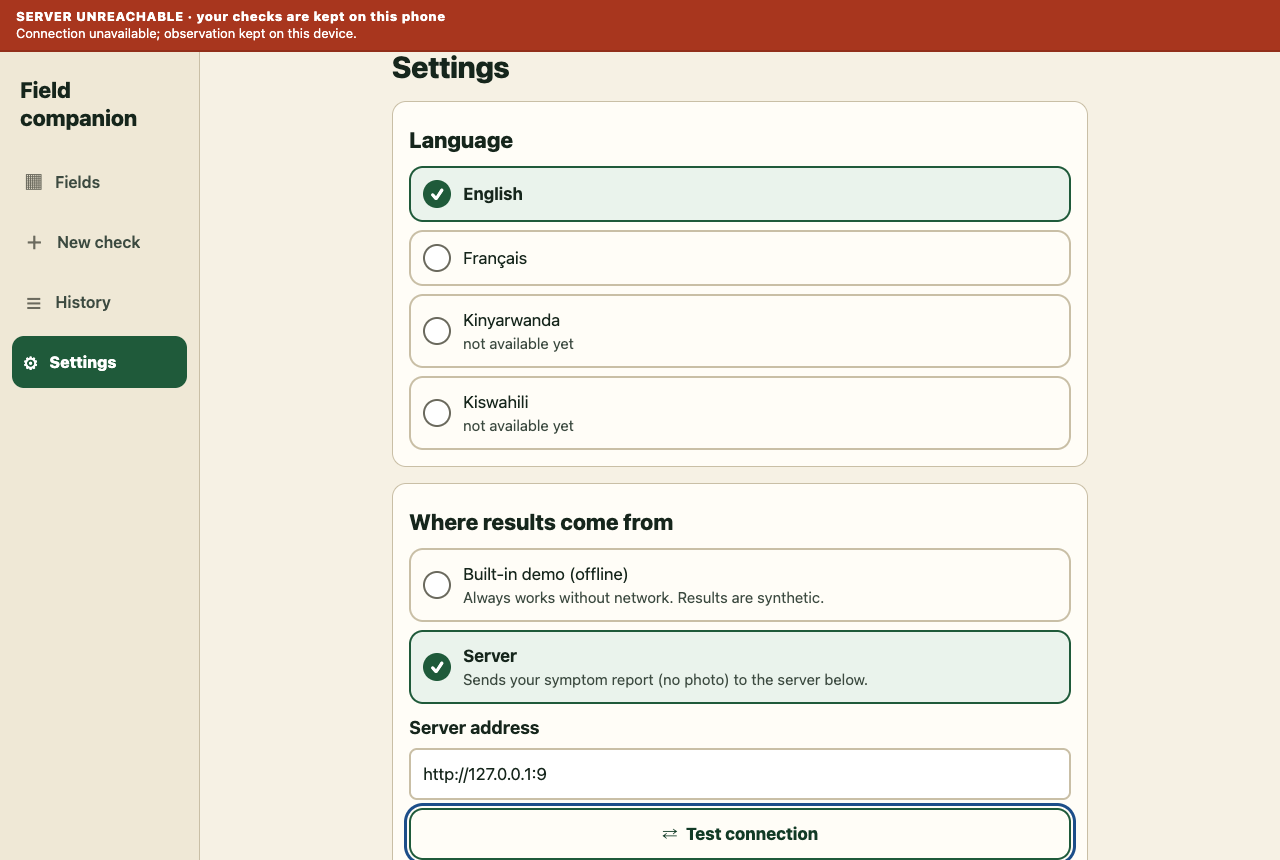
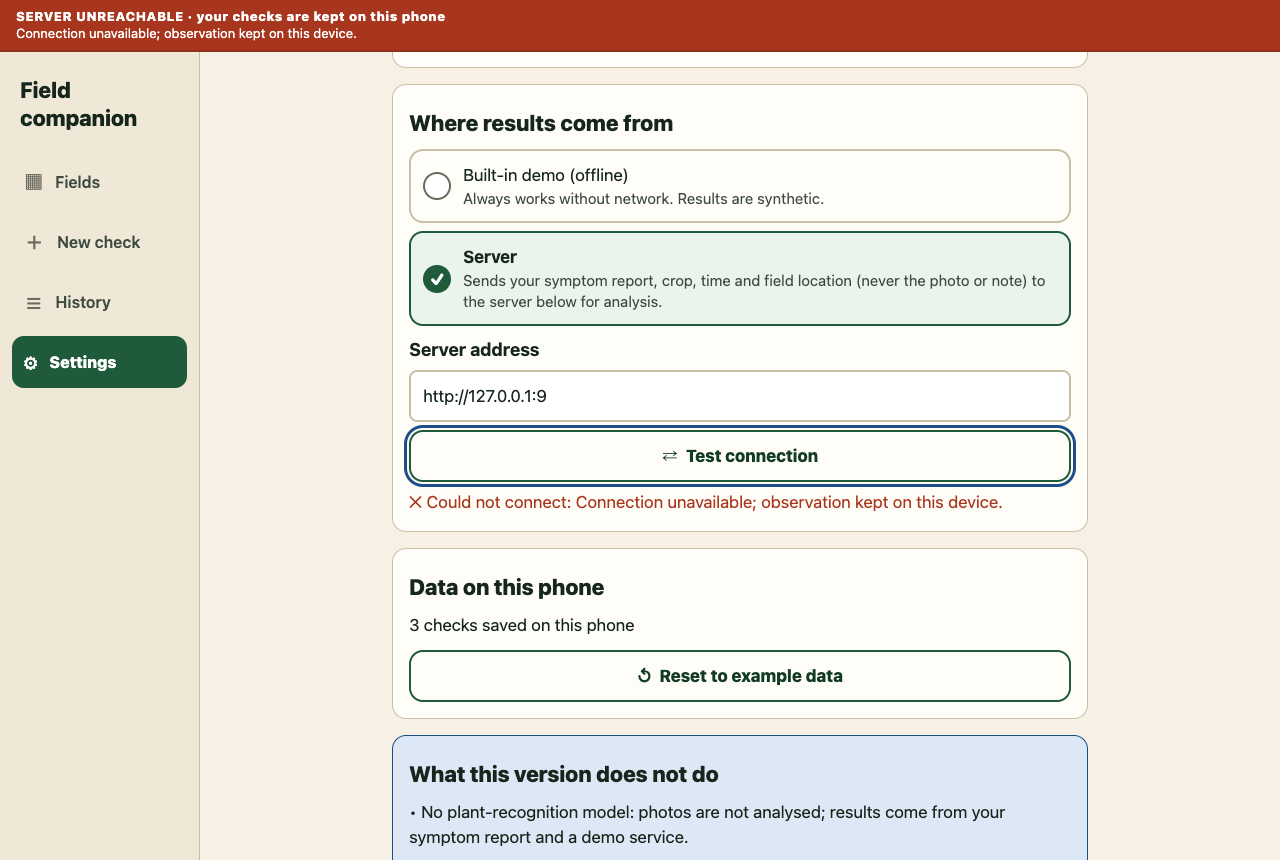
Guard stale connection checks, portable timeout, server-mode privacy copy
ConnectionGate discards health responses superseded by a source/address
change; automatic retries only use the HTTP adapter that passed the
latest check. AbortController+timer replaces AbortSignal.timeout and
reports retryable 'timeout'. Result/settings copy states exactly what
server mode sends (symptom report, crop, time, location; never photo or
note). Test scripts close browsers in finally. 13 domain checks.

Changed region(s): [[0.2812, 0.0605, 0.875, 1.0], [0.8125, 0.1814, 0.8438, 0.2116]]

diff --git a/frontend/src/state/store.tsx b/frontend/src/state/store.tsx
@@ -1,17 +1,14 @@
 // React binding for app state. Views call these actions; they never touch storage or fetch.
 import React, { createContext, useCallback, useContext, useEffect, useMemo, useRef, useState } from 'react';
 import { Platform } from 'react-native';
-import { httpApi, mockApi, type Api, type Health } from '../api';
+import { httpApi, mockApi, type Api } from '../api';
+import { ConnectionGate, type Connection } from './connection';
 import { buildObservation, newId, type Field, type ObservationRecord } from '../domain/model';
 import { translator, type Translate } from '../i18n';
 import { deviceStore, type KeyValueStore } from '../storage';
 import { loadState, retryable, runAnalysis, saveState, seedState, type PersistedState, type Settings } from './repository';
 
-export type Connection =
-  | { kind: 'local' }
-  | { kind: 'checking' }
-  | { kind: 'ok'; health: Health }
-  | { kind: 'unreachable'; message: string };
+export type { Connection };
 
 interface NewCheck { fieldId: string; symptoms: string[]; certainty: 'sure' | 'unsure'; evidence: string[]; photoUri?: string; note?: string }
 
@@ -40,10 +37,13 @@ export function StoreProvider({ children, storage = deviceStore }: { children: R
   const [connection, setConnection] = useState<Connection>({ kind: 'local' });
   const [busy, setBusy] = useState<Record<string, boolean>>({});
   const current = useRef(state);
+  const gate = useRef(new ConnectionGate());
+  const activeApi = useRef<Api>(mockApi);
   const writes = useRef(Promise.resolve());
 
   const api = useMemo<Api>(() => state.settings.source === 'http' ? httpApi(state.settings.baseUrl) : mockApi, [state.settings.source, state.settings.baseUrl]);
   const t = useMemo(() => translator(state.settings.locale), [state.settings.locale]);
+  activeApi.current = api;
 
   /** Apply an update and queue a durable write; resolves once written. */
   const commit = useCallback((update: (s: PersistedState) => PersistedState) => {
@@ -73,26 +73,32 @@ export function StoreProvider({ children, storage = deviceStore }: { children: R
     const result = await runAnalysis(record, using);
     setBusy(b => { const next = { ...b }; delete next[record.id]; return next; });
     await patchRecord(record.id, r => ({ ...r, analysis: result }));
-    if (using.kind === 'http') {
-      if (result.kind === 'failed' && result.code === 'network_unavailable') setConnection({ kind: 'unreachable', message: result.message });
-      else if (result.kind === 'done') setConnection(c => c.kind === 'ok' ? c : { kind: 'ok', health: { status: 'ok', contract_version: result.analysis.contract_version, data_mode: result.analysis.data_mode } });
+    // Only the adapter that is still active may change the connection banner.
+    if (using.kind === 'http' && using === activeApi.current && result.kind === 'failed' && (result.code === 'network_unavailable' || result.code === 'timeout')) {
+      gate.current.invalidate();
+      setConnection({ kind: 'unreachable', message: result.message });
     }
   }, [patchRecord]);
 
+  /** Checks the active adapter (or an explicit address, for display only — never verified for retries). */
   const testConnection = useCallback(async (baseUrl?: string): Promise<Connection> => {
-    const target = baseUrl ? httpApi(baseUrl) : api;
-    if (target.kind === 'mock') { const c: Connection = { kind: 'local' }; setConnection(c); return c; }
-    setConnection({ kind: 'checking' });
-    try { const c: Connection = { kind: 'ok', health: await target.health() }; setConnection(c); return c; }
-    catch (e) { const c: Connection = { kind: 'unreachable', message: String((e as Error)?.message ?? e) }; setConnection(c); return c; }
+    if (baseUrl && baseUrl !== api.baseUrl) {
+      try { const health = await httpApi(baseUrl).health(); return { kind: 'ok', health }; }
+      catch (e) { return { kind: 'unreachable', message: String((e as Error)?.message ?? e) }; }
+    }
+    if (api.kind === 'http') setConnection({ kind: 'checking' });
+    const result = await gate.current.check(api);
+    if (result) setConnection(result);
+    return result ?? { kind: 'checking' };
   }, [api]);
 
   // When a working connection appears, retry saved checks that never got an analysis.
   const retryPending = useCallback(() => {
+    if (!gate.current.isVerified(api)) return;
     for (const r of current.current.records) if (retryable(r) && !busy[r.id]) analyse(r, api);
   }, [analyse, api, busy]);
 
-  useEffect(() => { if (ready) testConnection(); }, [ready, testConnection]);
+  useEffect(() => { gate.current.invalidate(); if (ready) testConnection(); }, [ready, testConnection]);
   // Only a verified server connection triggers automatic retries; failed server checks are
   // never silently re-run through the demo adapter (a manual retry in demo mode is explicit).
   useEffect(() => { if (ready && connection.kind === 'ok') retryPending(); }, [ready, connection.kind, api]); // eslint-disable-line react-hooks/exhaustive-deps

diff --git a/frontend/src/screens/SettingsScreen.tsx b/frontend/src/screens/SettingsScreen.tsx
@@ -1,16 +1,18 @@
 import React, { useEffect, useState } from 'react';
 import { Text, TextInput, View } from 'react-native';
 import { LOCALES } from '../i18n';
+import type { Connection } from '../state/connection';
 import { useStore } from '../state/store';
 import { Body, Button, Card, Choice, H1, H2, Row } from '../ui/components';
 import { color, space, type } from '../ui/theme';
 import { inputStyle } from './FieldsScreen';
 
 export function SettingsScreen() {
-  const { t, state, updateSettings, testConnection, connection, reset } = useStore();
+  const { t, state, updateSettings, testConnection, reset } = useStore();
   const [url, setUrl] = useState(state.settings.baseUrl);
   const [confirming, setConfirming] = useState(false);
-  const [tested, setTested] = useState(false);
+  const [tested, setTested] = useState<Connection>();
+  const [testing, setTesting] = useState(false);
   useEffect(() => setUrl(state.settings.baseUrl), [state.settings.baseUrl]);
 
   return (
@@ -28,18 +30,18 @@ export function SettingsScreen() {
       <Card>
         <H2>{t('settings.source')}</H2>
         <View accessibilityRole="radiogroup" style={{ gap: space(2) }}>
-          <Choice multi={false} label={t('settings.source.mock')} detail={t('settings.source.mock.detail')} selected={state.settings.source === 'mock'} onPress={() => { setTested(false); updateSettings({ source: 'mock' }); }} />
-          <Choice multi={false} label={t('settings.source.http')} detail={t('settings.source.http.detail')} selected={state.settings.source === 'http'} onPress={() => { setTested(false); updateSettings({ source: 'http' }); }} />
+          <Choice multi={false} label={t('settings.source.mock')} detail={t('settings.source.mock.detail')} selected={state.settings.source === 'mock'} onPress={() => { setTested(undefined); updateSettings({ source: 'mock' }); }} />
+          <Choice multi={false} label={t('settings.source.http')} detail={t('settings.source.http.detail')} selected={state.settings.source === 'http'} onPress={() => { setTested(undefined); updateSettings({ source: 'http' }); }} />
         </View>
         {state.settings.source === 'http' ? (
           <View style={{ gap: space(2) }}>
             <Text style={type.heading}>{t('settings.url')}</Text>
             <TextInput value={url} onChangeText={setUrl} onBlur={() => updateSettings({ baseUrl: url.trim() })} autoCapitalize="none" autoCorrect={false} keyboardType="url"
               accessibilityLabel={t('settings.url')} style={inputStyle} />
-            <Button kind="secondary" icon="⇄" label={connection.kind === 'checking' ? t('mode.http.checking') : t('settings.test')}
-              onPress={async () => { updateSettings({ baseUrl: url.trim() }); setTested(true); await testConnection(url.trim()); }} />
-            {tested && connection.kind === 'ok' ? <Text accessibilityRole="alert" style={[type.body, { color: color.leaf }]}>✓ {t('settings.test.ok', { version: connection.health.contract_version, mode: connection.health.data_mode })}</Text> : null}
-            {tested && connection.kind === 'unreachable' ? <Text accessibilityRole="alert" style={[type.body, { color: color.clay }]}>✕ {t('settings.test.fail', { message: connection.message })}</Text> : null}
+            <Button kind="secondary" icon="⇄" label={testing ? t('mode.http.checking') : t('settings.test')}
+              onPress={async () => { const target = url.trim(); updateSettings({ baseUrl: target }); setTesting(true); setTested(undefined); try { setTested(await testConnection(target)); } finally { setTesting(false); } }} />
+            {tested?.kind === 'ok' ? <Text accessibilityRole="alert" style={[type.body, { color: color.leaf }]}>✓ {t('settings.test.ok', { version: tested.health.contract_version, mode: tested.health.data_mode })}</Text> : null}
+            {tested?.kind === 'unreachable' ? <Text accessibilityRole="alert" style={[type.body, { color: color.clay }]}>✕ {t('settings.test.fail', { message: tested.message })}</Text> : null}
           </View>
         ) : null}
       </Card>

diff --git a/frontend/tests/domain.ts b/frontend/tests/domain.ts
@@ -10,6 +10,7 @@ import { buildObservation, fieldAttention, signalStrength, sortFieldsByAttention
 import { describeFeatures, project, timeSlots } from '../src/domain/mapFeatures.ts';
 import { CORRUPT_KEY, loadState, runAnalysis, saveState, seedState, STORAGE_KEY, retryable } from '../src/state/repository.ts';
 import { memoryStore } from '../src/storageMemory.ts';
+import { ConnectionGate } from '../src/state/connection.ts';
 import { isSupported, missingKeys, translator } from '../src/i18n/index.ts';
 import { en } from '../src/i18n/en.ts';
 import { fr } from '../src/i18n/fr.ts';
@@ -146,6 +147,50 @@ test('localization: complete French, transparent fallback, ids covered', () => {
   for (const e of EVIDENCE_CHECKS) assert(`evidence.${e}` in en, e);
   const ph = (v: string) => (v.match(/\{\w+\}/g) ?? []).sort().join();
   for (const k of Object.keys(en) as (keyof typeof en)[]) assert.equal(ph(fr[k]), ph(en[k]), `placeholders differ for ${k}`);
+});
+
+test('stale health responses are discarded after switching source/address', async () => {
+  const gate = new ConnectionGate();
+  let release!: () => void;
+  const slow: Api = { ...httpApi('http://slow.invalid'), health: () => new Promise(r => { release = () => r({ status: 'ok', contract_version: '0.1.0', data_mode: 'demo' }); }) };
+  const pending = gate.check(slow);
+  // User switches to the demo adapter while the health check is in flight.
+  assert.deepEqual(await gate.check(mockApi), { kind: 'local' });
+  release();
+  assert.equal(await pending, null, 'late response must be ignored');
+  assert.equal(gate.isVerified(slow), false);
+  assert.equal(gate.isVerified(mockApi), false, 'mock is never verified for automatic retries');
+  // Address change: a new adapter instance; only it can be verified.
+  const a = httpApi('http://a.invalid'); const b = httpApi('http://b.invalid');
+  await withFetch(async () => new Response(JSON.stringify({ status: 'ok', contract_version: '0.1.0', data_mode: 'demo' })), async () => {
+    assert.equal((await gate.check(a))?.kind, 'ok');
+    assert(gate.isVerified(a));
+    gate.invalidate();
+    assert(!gate.isVerified(a));
+    await gate.check(b);
+    assert(gate.isVerified(b) && !gate.isVerified(a));
+  });
+});
+
+test('timeout path uses a portable abort and reports retryable timeout', async () => {
+  const obs = buildObservation({ id: 'o5', field, symptoms: [], certainty: 'unsure', locale: 'en', now: new Date(), hasPhoto: false });
+  const hanging: typeof fetch = (_u, init) => new Promise((_r, reject) => {
+    init?.signal?.addEventListener('abort', () => reject(new Error('aborted')));
+  });
+  await withFetch(hanging, async () => {
+    const started = Date.now();
+    await assert.rejects(httpApi('http://slow.invalid', 50).analyze(obs), { code: 'timeout', retryable: true });
+    assert(Date.now() - started < 2000);
+  });
+});
+
+test('source-mode copy never claims nothing leaves the device in server mode', () => {
+  for (const lang of [en, fr]) {
+    assert.match(lang['result.sent.http'], /server|serveur/i);
+    assert.doesNotMatch(lang['result.sync'], /not uploaded|non envoyé|nothing/i);
+    assert.doesNotMatch(lang['settings.source.http.detail'], /no data|rien/i);
+  }
+  assert.match(en['result.sent.http'], /photo/);
 });
 
 (async () => {

diff --git a/frontend/src/i18n/fr.ts b/frontend/src/i18n/fr.ts
@@ -146,7 +146,9 @@ export const fr: Messages = {
   'result.details.observed': 'Observé',
   'result.details.id': 'Identifiant du constat',
   'result.details.contract': 'Contrat',
-  'result.sync': 'Enregistré sur ce téléphone uniquement. Non envoyé — cette version n’a pas de service d’envoi.',
+  'result.sync': 'Enregistré sur ce téléphone. Aucun historique ni rapport partagé n’est conservé sur un serveur.',
+  'result.sent.http': 'Envoyé au serveur pour obtenir ce résultat : vos symptômes, la culture, l’heure du constat et la position de la parcelle (si enregistrée). Non envoyé : votre photo et votre remarque.',
+  'result.sent.mock': 'Analysé dans l’application. Rien n’a été envoyé.',
   'result.photo': 'Votre photo (gardée sur ce téléphone)',
   'result.yourReport': 'Ce que vous avez signalé',
   'result.unsupported': 'Cette culture n’est pas encore prise en charge. Votre constat reste enregistré pour vos archives.',
@@ -174,7 +176,7 @@ export const fr: Messages = {
   'settings.source.mock': 'Démo intégrée (hors ligne)',
   'settings.source.mock.detail': 'Fonctionne toujours sans réseau. Les résultats sont fictifs.',
   'settings.source.http': 'Serveur',
-  'settings.source.http.detail': 'Envoie votre description des symptômes (sans photo) au serveur ci-dessous.',
+  'settings.source.http.detail': 'Envoie vos symptômes, la culture, l’heure et la position de la parcelle (jamais la photo ni la remarque) au serveur ci-dessous pour analyse.',
   'settings.url': 'Adresse du serveur',
   'settings.test': 'Tester la connexion',
   'settings.test.ok': 'Connecté. Contrat {version}, mode des données {mode}.',
@@ -186,7 +188,7 @@ export const fr: Messages = {
   'settings.reset.no': 'Garder mes données',
   'settings.limits': 'Ce que cette version ne fait pas',
   'settings.limit.inference': 'Pas de modèle de reconnaissance des plantes : les photos ne sont pas analysées ; les résultats viennent de votre description et d’un service de démonstration.',
-  'settings.limit.sync': 'Pas d’envoi ni de synchronisation : tout reste sur ce téléphone.',
+  'settings.limit.sync': 'Pas de synchronisation de l’historique : les constats restent sur ce téléphone. En mode serveur, seuls les symptômes (sans photo) sont envoyés pour obtenir un résultat.',
   'settings.limit.map': 'Pas encore de carte de risque ni de météo en direct.',
   'settings.limit.notify': 'Les rappels de suivi s’affichent uniquement dans l’application.',
   'settings.limit.voice': 'Pas encore de saisie vocale.',

diff --git a/frontend/src/screens/ResultScreen.tsx b/frontend/src/screens/ResultScreen.tsx
@@ -41,7 +41,7 @@ function PendingView({ record }: { record: ObservationRecord }) {
   const a = record.analysis;
   const working = busy[record.id] || a.kind === 'waiting';
   const msg = a.kind === 'failed'
-    ? (a.code === 'network_unavailable' || a.code === 'interrupted' ? t('pending.network') : a.retryable ? t('pending.error', { code: a.code }) : t('pending.permanent', { code: a.code }))
+    ? (a.code === 'network_unavailable' || a.code === 'timeout' || a.code === 'interrupted' ? t('pending.network') : a.retryable ? t('pending.error', { code: a.code }) : t('pending.permanent', { code: a.code }))
     : t('pending.analysing');
   return (
     <Card tone={a.kind === 'failed' && !a.retryable ? 'alert' : 'warn'}>
@@ -129,7 +129,7 @@ function AnalysisView({ record, analysis, via, nav }: { record: ObservationRecor
         <Body soft>{due ? t('result.followUp.set', { date: formatDate(due.toISOString(), locale) }) : t('result.followUp.none')}</Body>
       </Card>
 
-      <Details analysis={analysis} record={record} />
+      <Details analysis={analysis} record={record} via={via} />
     </View>
   );
 }
@@ -176,7 +176,7 @@ function ReportView({ record }: { record: ObservationRecord }) {
   );
 }
 
-function Details({ analysis, record }: { analysis: Analysis; record: ObservationRecord }) {
+function Details({ analysis, record, via }: { analysis: Analysis; record: ObservationRecord; via: 'mock' | 'http' }) {
   const { t, state } = useStore();
   const [open, setOpen] = useState(false);
   const locale = state.settings.locale;
@@ -194,6 +194,7 @@ function Details({ analysis, record }: { analysis: Analysis; record: Observation
       <Pressable accessibilityRole="button" accessibilityState={{ expanded: open }} onPress={() => setOpen(!open)} style={{ minHeight: 48, justifyContent: 'center' }}>
         <Text style={type.heading}>{open ? '▾' : '▸'}  {t('result.details')}</Text>
       </Pressable>
+      <Body soft>{via === 'http' ? t('result.sent.http') : t('result.sent.mock')}</Body>
       <Body soft>{t('result.sync')}</Body>
       {open ? rows.map(([k, v]) => (
         <View key={k} style={{ borderTopWidth: 1, borderTopColor: color.line, paddingTop: space(2) }}>

diff --git a/frontend/src/i18n/en.ts b/frontend/src/i18n/en.ts
@@ -144,7 +144,9 @@ export const en = {
   'result.details.observed': 'Observed',
   'result.details.id': 'Check ID',
   'result.details.contract': 'Contract',
-  'result.sync': 'Saved on this phone only. Not uploaded — this version has no upload service.',
+  'result.sync': 'Saved on this phone. No shared history or report is kept on a server.',
+  'result.sent.http': 'Sent to the server to get this result: your symptom report, crop, check time and field location (if saved). Not sent: your photo and note.',
+  'result.sent.mock': 'Analysed inside the app. Nothing was sent anywhere.',
   'result.photo': 'Your photo (kept on this phone)',
   'result.yourReport': 'What you reported',
   'result.unsupported': 'This crop is not supported yet. Your check is still saved for your own records.',
@@ -172,7 +174,7 @@ export const en = {
   'settings.source.mock': 'Built-in demo (offline)',
   'settings.source.mock.detail': 'Always works without network. Results are synthetic.',
   'settings.source.http': 'Server',
-  'settings.source.http.detail': 'Sends your symptom report (no photo) to the server below.',
+  'settings.source.http.detail': 'Sends your symptom report, crop, time and field location (never the photo or note) to the server below for analysis.',
   'settings.url': 'Server address',
   'settings.test': 'Test connection',
   'settings.test.ok': 'Connected. Contract {version}, data mode {mode}.',
@@ -184,7 +186,7 @@ export const en = {
   'settings.reset.no': 'Keep my data',
   'settings.limits': 'What this version does not do',
   'settings.limit.inference': 'No plant-recognition model: photos are not analysed; results come from your symptom report and a demo service.',
-  'settings.limit.sync': 'No upload or sync: everything stays on this phone.',
+  'settings.limit.sync': 'No history sync: checks are kept on this phone. In server mode only the symptom report (no photo) is sent, to get a result.',
   'settings.limit.map': 'No live risk map or weather yet.',
   'settings.limit.notify': 'Follow-up reminders show inside the app only.',
   'settings.limit.voice': 'No voice input yet.',

diff --git a/frontend/tests/screenshots.ts b/frontend/tests/screenshots.ts
@@ -80,16 +80,20 @@ async function journey(page: Page, prefix: string) {
 
 async function main() {
   mkdirSync(OUT, { recursive: true });
-  const browser = await chromium.launch({ executablePath: CHROME, headless: true });
+  const browser = await chromium.launch({ executablePath: CHROME, headless: true }); // isolated temp profile
   const errors: string[] = [];
-  for (const [prefix, viewport] of [['phone', { width: 390, height: 844 }], ['desktop', { width: 1280, height: 860 }]] as const) {
-    const page = await browser.newPage({ viewport, deviceScaleFactor: 1 });
-    page.on('pageerror', e => errors.push(`${prefix}: ${e.message}`));
-    page.on('console', m => { if (m.type() === 'error' && !/127\.0\.0\.1:9|ERR_CONNECTION_REFUSED|Failed to load resource/.test(m.text())) errors.push(`${prefix}: ${m.text()}`); });
-    try { await journey(page, prefix); } catch (e) { await page.screenshot({ path: path.join(OUT, `FAIL-${prefix}.png`), fullPage: true }); throw e; }
-    await page.close();
+  try {
+    for (const [prefix, viewport] of [['phone', { width: 390, height: 844 }], ['desktop', { width: 1280, height: 860 }]] as const) {
+      const page = await browser.newPage({ viewport, deviceScaleFactor: 1 });
+      page.on('pageerror', e => errors.push(`${prefix}: ${e.message}`));
+      page.on('console', m => { if (m.type() === 'error' && !/127\.0\.0\.1:9|ERR_CONNECTION_REFUSED|ERR_UNSAFE_PORT|Failed to load resource/.test(m.text())) errors.push(`${prefix}: ${m.text()}`); });
+      try { await journey(page, prefix); }
+      catch (e) { await page.screenshot({ path: path.join(OUT, `FAIL-${prefix}.png`), fullPage: true }).catch(() => {}); throw e; }
+      finally { await page.close().catch(() => {}); }
+    }
+  } finally {
+    await browser.close();
   }
-  await browser.close();
   if (errors.length) { console.error('Console errors:\n' + errors.join('\n')); process.exitCode = 1; }
   else console.log('Journey passed with no console errors');
 }

diff --git a/frontend/src/state/connection.ts b/frontend/src/state/connection.ts
@@ -1,0 +1,36 @@
+// Generation-guarded connection checks. A health response that arrives after the source or
+// address changed is discarded, and only the adapter that passed the latest check is "verified".
+import type { Api, Health } from '../api';
+
+export type Connection =
+  | { kind: 'local' }
+  | { kind: 'checking' }
+  | { kind: 'ok'; health: Health }
+  | { kind: 'unreachable'; message: string };
+
+export class ConnectionGate {
+  private generation = 0;
+  private verified?: Api;
+
+  /** Call whenever the active adapter changes; in-flight checks become stale. */
+  invalidate(): void { this.generation++; this.verified = undefined; }
+
+  /** Resolves to the new connection, or null when superseded by a newer check/adapter. */
+  async check(api: Api): Promise<Connection | null> {
+    this.invalidate();
+    const mine = this.generation;
+    if (api.kind === 'mock') return { kind: 'local' };
+    try {
+      const health = await api.health();
+      if (mine !== this.generation) return null;
+      this.verified = api;
+      return { kind: 'ok', health };
+    } catch (e) {
+      if (mine !== this.generation) return null;
+      return { kind: 'unreachable', message: String((e as Error)?.message ?? e) };
+    }
+  }
+
+  /** True only for the exact HTTP adapter instance that passed the latest health check. */
+  isVerified(api: Api): boolean { return api.kind === 'http' && this.verified === api; }
+}

diff --git a/frontend/tests/http-smoke.ts b/frontend/tests/http-smoke.ts
@@ -10,6 +10,7 @@ const OUT = path.resolve(__dirname, '../../docs/frontend/screenshots');
 
 (async () => {
   const browser = await chromium.launch({ executablePath: CHROME });
+  try {
   const page = await browser.newPage({ viewport: { width: 390, height: 844 } });
   const posts: number[] = [];
   page.on('response', r => { if (r.url().startsWith(`${API}/v1/analyses`)) posts.push(r.status()); });
@@ -29,8 +30,8 @@ const OUT = path.resolve(__dirname, '../../docs/frontend/screenshots');
   await page.getByRole('button', { name: /Details and data origin/ }).click();
   const body = await page.locator('body').innerText();
   await page.screenshot({ path: path.join(OUT, 'phone-11-http-result.png') });
-  await browser.close();
   if (!posts.includes(200)) throw new Error(`expected a 200 POST /v1/analyses, saw ${posts}`);
   if (!/SERVER · /.test(body)) throw new Error('server mode banner missing');
   console.log('HTTP smoke passed: POST /v1/analyses', posts, '— result rendered with demo labelling');
+  } finally { await browser.close(); }
 })().catch(e => { console.error(e); process.exitCode = 1; });

diff --git a/frontend/src/api.ts b/frontend/src/api.ts
@@ -95,11 +95,19 @@ export function normalizeAnalysis(raw: unknown): Analysis {
   } as Analysis;
 }
 
+/** Portable timeout (AbortController + timer): AbortSignal.timeout is missing on some RN runtimes. */
 async function request(url: string, init: RequestInit, timeoutMs: number): Promise<Response> {
+  const controller = new AbortController();
+  let timedOut = false;
+  const timer = setTimeout(() => { timedOut = true; controller.abort(); }, timeoutMs);
   try {
-    return await fetch(url, { ...init, signal: AbortSignal.timeout(timeoutMs) });
+    return await fetch(url, { ...init, signal: controller.signal });
   } catch {
-    throw new ApiError('network_unavailable', 'Connection unavailable; observation kept on this device.', true);
+    throw timedOut
+      ? new ApiError('timeout', 'Server did not answer in time; observation kept on this device.', true)
+      : new ApiError('network_unavailable', 'Connection unavailable; observation kept on this device.', true);
+  } finally {
+    clearTimeout(timer);
   }
 }
 
